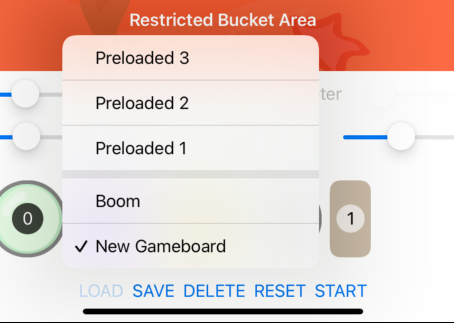
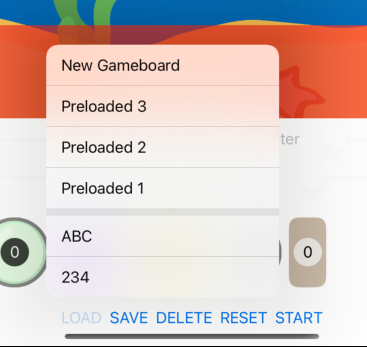
final touches

diff --git a/PeggleClone/PeggleClone/Views/Game/GameView.swift b/PeggleClone/PeggleClone/Views/Game/GameView.swift
@@ -85,16 +85,13 @@ private struct GameLevelView: View {
             .gesture(
                 DragGesture()
                     .onChanged { gesture in
-                        SoundManager.instance.playSound(.rotate)
                         gameViewModel.adjustCannonAngle(point: gesture.location)
                     }
                     .onEnded { gesture in
-                        SoundManager.instance.playSound(.cannon)
                         gameViewModel.shoot(at: gesture.location)
                     }
             )
             .onTapGesture { gestureLocation in
-                SoundManager.instance.playSound(.cannon)
                 gameViewModel.adjustCannonAngle(point: gestureLocation)
                 gameViewModel.shoot(at: gestureLocation)
             }
@@ -149,32 +146,33 @@ private struct GameLevelView: View {
             .position(ball.position)
     }
 
-    private func pegView(imageName: String, width: CGFloat, position: CGPoint) -> some View {
+    private func pegView(imageName: String, peg: PegGameObject) -> some View {
         Image(imageName)
             .resizable()
             .scaledToFit()
-            .frame(width: width)
-            .position(position)
+            .frame(width: peg.diameter)
+            .rotationEffect(.degrees(peg.rotation))
+            .position(peg.position)
     }
 
     private func normalPegView(peg: PegGameObject) -> some View {
-        pegView(imageName: peg.isLit ? "peg-blue-glow" : "peg-blue", width: peg.diameter, position: peg.position)
+        pegView(imageName: peg.isLit ? "peg-blue-glow" : "peg-blue", peg: peg)
     }
 
     private func goalPegView(peg: PegGameObject) -> some View {
-        pegView(imageName: peg.isLit ? "peg-orange-glow" : "peg-orange", width: peg.diameter, position: peg.position)
+        pegView(imageName: peg.isLit ? "peg-orange-glow" : "peg-orange", peg: peg)
     }
 
     private func kaboomPegView(peg: PegGameObject) -> some View {
-        pegView(imageName: peg.isLit ? "peg-green-glow" : "peg-green", width: peg.diameter, position: peg.position)
+        pegView(imageName: peg.isLit ? "peg-green-glow" : "peg-green", peg: peg)
     }
 
     private func spookyPegView(peg: PegGameObject) -> some View {
-        pegView(imageName: peg.isLit ? "peg-purple-glow" : "peg-purple", width: peg.diameter, position: peg.position)
+        pegView(imageName: peg.isLit ? "peg-purple-glow" : "peg-purple", peg: peg)
     }
 
     private func stubbornPegView(peg: PegGameObject) -> some View {
-        pegView(imageName: peg.isLit ? "peg-grey-glow" : "peg-grey", width: peg.diameter, position: peg.position)
+        pegView(imageName: peg.isLit ? "peg-grey-glow" : "peg-grey", peg: peg)
     }
 
     private func healthPegView(peg: PegGameObject) -> some View {
@@ -183,9 +181,7 @@ private struct GameLevelView: View {
             2: "peg-pink-glow",
             3: "peg-red"
         ]
-        return pegView(imageName: hitCountMap[peg.hitCount] ?? "peg-yellow",
-                       width: peg.diameter,
-                       position: peg.position)
+        return pegView(imageName: hitCountMap[peg.hitCount] ?? "peg-yellow", peg: peg)
     }
 
     private var blocksView: some View {

diff --git a/PeggleClone/PeggleClone/Views/LevelDesigner/LevelDesignerActionButtonsView.swift b/PeggleClone/PeggleClone/Views/LevelDesigner/LevelDesignerActionButtonsView.swift
@@ -30,8 +30,6 @@ struct LevelDesignerActionButtonsView: View {
     private var loadButtonView: some View {
         Menu("LOAD") {
             Picker("Current Gameboard", selection: $selectedGameboard) {
-                Text("New Gameboard")
-                    .tag(UUID?.none)
                 ForEach(viewModel.gameboards, id: \.self) { gameboardEntity in
                     if let id = gameboardEntity.id, let name = gameboardEntity.name {
                         Text(name)
@@ -42,8 +40,6 @@ struct LevelDesignerActionButtonsView: View {
             .onChange(of: selectedGameboard) {
                 if let id = selectedGameboard {
                     viewModel.loadGameboard(id: id, preloadId: -1)
-                } else {
-                    viewModel.newGameboard()
                 }
             }
 
@@ -51,7 +47,12 @@ struct LevelDesignerActionButtonsView: View {
                 ForEach(1...3, id: \.self) { index in
                     Button("Preloaded \(index)") {
                         viewModel.loadGameboard(id: UUID(), preloadId: index)
+                        selectedGameboard = nil
                     }
+                }
+                Button("New Gameboard") {
+                    selectedGameboard = nil
+                    viewModel.newGameboard()
                 }
             }
         }

diff --git a/PeggleClone/PeggleCloneTests/LevelDesignerTests/PegTests.swift b/PeggleClone/PeggleCloneTests/LevelDesignerTests/PegTests.swift
@@ -59,22 +59,4 @@ final class PegTests: XCTestCase {
 
         XCTAssertEqual(peg.diameter, newDiameter, "Failed to set diameter")
     }
-
-    func testEquality() {
-        let peg1Id = UUID()
-        let peg2Id = UUID()
-        let position_1 = CGPoint(x: 10, y: 20)
-        let position_2 = CGPoint(x: 15, y: 25)
-
-        let peg1 = Peg(id: peg1Id, position: position_1, pegtype: .NormalPeg)
-        let peg2 = Peg(id: peg1Id, position: position_1, pegtype: .GoalPeg)
-        let peg3 = Peg(id: peg2Id, position: position_2, pegtype: .NormalPeg)
-        let peg4 = Peg(id: peg2Id, position: position_1, pegtype: .GoalPeg)
-        let peg5 = Peg(id: peg2Id, position: position_1, pegtype: .NormalPeg)
-
-        XCTAssertEqual(peg1, peg2, "Pegs with the same ID but different colour should be equal")
-        XCTAssertEqual(peg3, peg5, "Pegs with the same ID but different position should be equal")
-        XCTAssertNotEqual(peg1, peg3, "Pegs with different IDs and same color should not be equal")
-        XCTAssertNotEqual(peg2, peg4, "Pegs with different ID and same position should not be equal")
-    }
 }

diff --git a/PeggleClone/PeggleCloneTests/LevelDesignerTests/BlockTests.swift b/PeggleClone/PeggleCloneTests/LevelDesignerTests/BlockTests.swift
@@ -74,20 +74,4 @@ final class BlockTests: XCTestCase {
         block.setWidth(newWidth: -50)
         XCTAssertEqual(block.width, 50, "Failed to set width")
     }
-
-    func testEquality() {
-        let block1Id = UUID()
-        let block2Id = UUID()
-        let position_1 = CGPoint(x: 10, y: 20)
-        let position_2 = CGPoint(x: 15, y: 25)
-
-        let block1 = Block(id: block1Id, position: position_1)
-        let block2 = Block(id: block1Id, position: position_1)
-        let block3 = Block(id: block2Id, position: position_2)
-        let block4 = Block(id: block2Id, position: position_1)
-
-        XCTAssertEqual(block1, block2, "Blocks with the same ID should be equal")
-        XCTAssertEqual(block3, block4, "Blocks with the same ID but different position should be equal")
-        XCTAssertNotEqual(block2, block4, "Blocks with different ID and same position should not be equal")
-    }
 }

diff --git a/PeggleClone/PeggleClone/ViewModels/Game/GameViewModel.swift b/PeggleClone/PeggleClone/ViewModels/Game/GameViewModel.swift
@@ -126,6 +126,7 @@ class GameViewModel: ObservableObject {
             return
         }
 
+        SoundManager.instance.playSound(.cannon)
         gameEngine.launchBall(point: at)
         createDisplayLink()
     }
@@ -141,6 +142,7 @@ class GameViewModel: ObservableObject {
             return
         }
 
+        SoundManager.instance.playSound(.rotate)
         self.cannonAngle = angleToRotate
         objectWillChange.send()
     }

diff --git a/PeggleClone/PeggleClone/Models/Block.swift b/PeggleClone/PeggleClone/Models/Block.swift
@@ -99,7 +99,7 @@ class Block {
 
 extension Block: Hashable {
     static func == (lhs: Block, rhs: Block) -> Bool {
-        lhs.id == rhs.id || lhs === rhs
+        lhs === rhs
     }
 
     func hash(into hasher: inout Hasher) {

diff --git a/PeggleClone/PeggleClone/Models/Peg.swift b/PeggleClone/PeggleClone/Models/Peg.swift
@@ -78,7 +78,7 @@ class Peg {
 
 extension Peg: Hashable {
     static func == (lhs: Peg, rhs: Peg) -> Bool {
-        lhs.id == rhs.id || lhs === rhs
+        lhs === rhs
     }
 
     func hash(into hasher: inout Hasher) {

diff --git a/docs/TEST_PLAN.md b/docs/TEST_PLAN.md
@@ -328,8 +328,9 @@ Check representations functions were implemented for
 
         -   Select the LOAD action button
         -   A menu containing all the previous saved gameboards names should appear
-        -   The menu should also contain 3 preloaded levels at the very top
+        -   The menu should also contain 3 preloaded levels at the top
         -   The tick indicates which gameboard is currently loaded
+        -   having no tick means that there is no loaded gameboard (i.e. blank gameboard or preloaded gameboard)
         -   Find and select the name of the gameboard that you want to load in
 
     -   To load prelaoded levels
@@ -337,7 +338,7 @@ Check representations functions were implemented for
         -   Select the LOAD action button
         -   Select one of the 3 preloaded levels
         -   the preloaded level should be loaded onto the screen
-        -   The preloaded level is loaded in as a "New Gameboard" indicated by the tick on the left of "New Gameboard" when you click LOAD action button
+        -   The preloaded level is loaded in as a "New Gameboard" with pegs
         -   this means that you can never modify the layout of the exisiting preloaded levels, however you can modify and save that "New Gameboard" with preloaded pegs/blocks as a new level
 
         -   Preloaded 1 should appear like this
@@ -383,7 +384,7 @@ Check representations functions were implemented for
 -   Level Selector
 
     -   Check for Preloaded levels
-        -   Preloaded levels should always be at the top of the list
+        -   Preloaded levels should always be at the top of the list right below "New gameboard"
         -   There should be 3 Preloaded levels named
             -   Preloaded 1
             -   Preloaded 2
